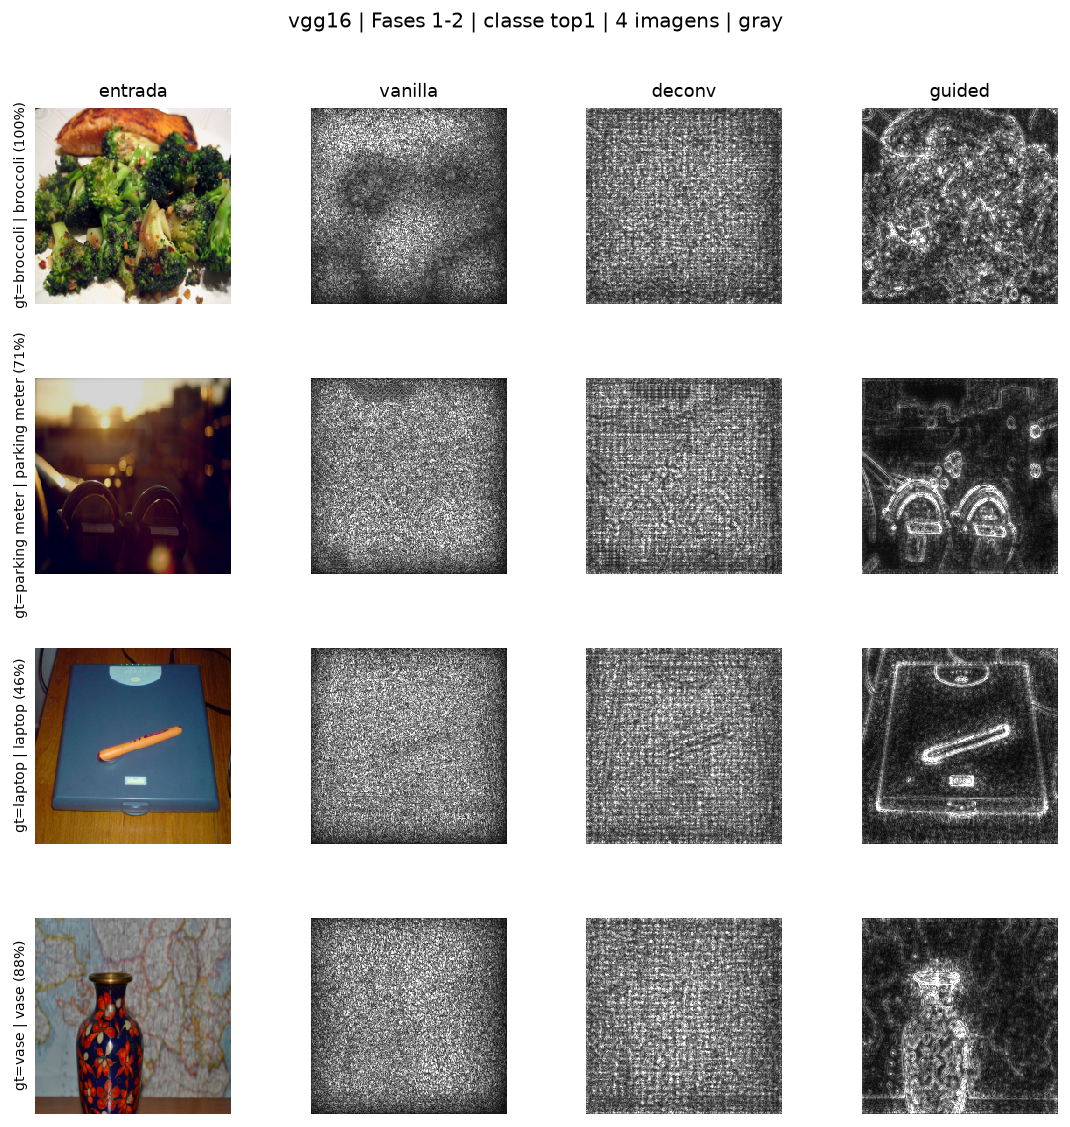
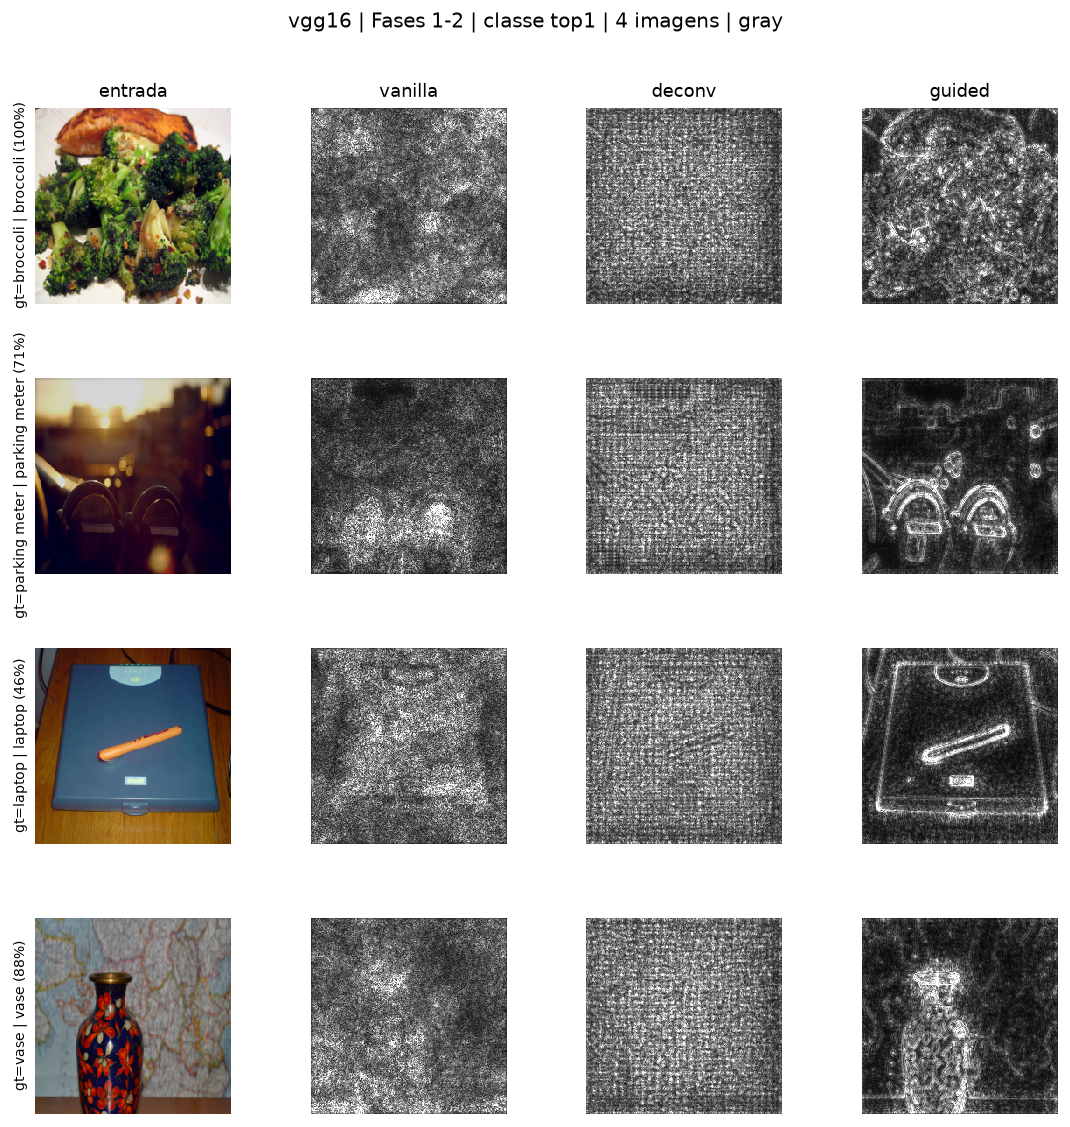
fix(relu): vanilla backprop usa a máscara x > 0
A regra "vanilla passa sempre" não é o gradiente da rede: o gradiente comum
de um ReLU zera onde a entrada é negativa. Deixar passar tudo produz o
gradiente de uma rede com os ReLUs linearizados na volta — outro objeto, com
mapas densos e pico ~10^6 em vez de ~10^0.

Descoberto na Fase 3: na mesma imagem, a correlação entre as classes dava
0,99 em "vanilla" com a regra errada e 0,52 com a certa, e a comparação com
torch.autograd não fechava (0,614 vs 0,990).

test_vanilla_matches_autograd compara o mapa com torch.autograd puro e fixa
a definição correta; as expectativas de deconv e guided não mudam.

Figuras de results/figures/02_* regeneradas: só a coluna vanilla muda, e
agora ela mostra o blob difuso sobre o objeto em vez de ruído sem estrutura.

diff --git a/tests/test_saliency.py b/tests/test_saliency.py
@@ -24,9 +24,10 @@ class TinyModel(nn.Module):
     y0 = +sum(relu(x))  -> gradiente a montante todo positivo
     y1 = -sum(relu(x))  -> gradiente a montante todo negativo
 
-    E' o menor modelo que separa as tres regras: com y0 (a montante > 0) so'
-    `guided` usa o sinal de x; com y1 (a montante < 0) `deconv` e `guided`
-    zeram tudo e `vanilla` nao.
+    E' o menor modelo que separa as tres regras: `vanilla` olha o sinal de x,
+    `deconv` olha o sinal do gradiente a montante e `guided` olha os dois. Com
+    y0 (a montante > 0) vanilla e guided coincidem; com y1 (a montante < 0)
+    deconv e guided zeram tudo e vanilla nao.
     """
 
     def __init__(self, mode: str = "vanilla") -> None:
@@ -50,7 +51,7 @@ def _grad(model: nn.Module, x: torch.Tensor, class_idx: int, mode: str) -> torch
 @pytest.mark.parametrize(
     "mode,expected",
     [
-        ("vanilla", [1.0, 1.0, 1.0, 1.0]),
+        ("vanilla", [0.0, 1.0, 0.0, 1.0]),
         ("deconv", [1.0, 1.0, 1.0, 1.0]),
         ("guided", [0.0, 1.0, 0.0, 1.0]),
     ],
@@ -63,7 +64,7 @@ def test_relu_rule_with_positive_upstream(mode, expected):
 @pytest.mark.parametrize(
     "mode,expected",
     [
-        ("vanilla", [1.0, 1.0, 1.0, 1.0]),
+        ("vanilla", [0.0, 1.0, 0.0, 1.0]),
         ("deconv", [0.0, 0.0, 0.0, 0.0]),
         ("guided", [0.0, 0.0, 0.0, 0.0]),
     ],
@@ -71,6 +72,29 @@ def test_relu_rule_with_positive_upstream(mode, expected):
 def test_relu_rule_with_negative_upstream(mode, expected):
     grad = _grad(TinyModel(), X, class_idx=1, mode=mode)
     assert torch.equal(grad, torch.tensor(expected))
+
+
+def test_vanilla_matches_autograd():
+    """`vanilla` tem que ser o gradiente comum — inclusive a mascara x > 0.
+
+    Teste de regressao: a primeira versao deixava o gradiente passar sempre
+    pelo ReLU, o que nao e' o gradiente da rede (e produzia mapas densos com
+    pico ~10^6 em vez de contornos).
+    """
+    torch.manual_seed(0)
+    model = nn.Sequential(
+        nn.Conv2d(3, 4, 3, padding=1), nn.ReLU(),
+        nn.Conv2d(4, 2, 3, padding=1), nn.ReLU(),
+        nn.Flatten(), nn.Linear(2 * 8 * 8, 5),
+    )
+    x = torch.randn(1, 3, 8, 8)
+
+    xr = x.clone().requires_grad_(True)
+    (grad,) = torch.autograd.grad(model(xr)[0, 3], xr)
+    expected = grad[0].abs().amax(dim=0)
+
+    heatmap, _ = saliency(model, x, 3, mode="vanilla")
+    assert torch.allclose(heatmap, expected, atol=1e-6)
 
 
 def test_unknown_mode_is_rejected():

diff --git a/gradcam/relu_variants.py b/gradcam/relu_variants.py
@@ -3,9 +3,15 @@
 Os metodos de saliencia por gradiente diferem apenas na mascara aplicada ao
 gradiente quando ele atravessa o ReLU, na volta:
 
-    vanilla | sempre passa
-    deconv  | passa se grad_out > 0          (Zeiler & Fergus, 2014)
-    guided  | passa se grad_out > 0 e x > 0  (Springenberg et al., 2014)
+    vanilla | passa se x > 0                  (gradiente comum / Simonyan 2013)
+    deconv  | passa se grad_out > 0           (Zeiler & Fergus, 2014)
+    guided  | passa se grad_out > 0 e x > 0   (Springenberg et al., 2014)
+
+`vanilla` **nao** e' "deixa passar sempre": o gradiente comum de `relu` ja'
+zera onde a entrada e' negativa. Deixar passar tudo seria o gradiente de uma
+rede com os ReLUs linearizados na volta — outro objeto, com mapas densos e
+magnitudes muito maiores. Essa era a definicao errada na primeira versao desta
+implementacao; o teste `test_vanilla_matches_autograd` fixa a correta.
 
 Ver plans/general_plan.md, secao 2.2.
 
@@ -33,7 +39,9 @@ class _ReluVariant(torch.autograd.Function):
     def backward(ctx, grad_output: torch.Tensor):
         (x,) = ctx.saved_tensors
         grad = grad_output
-        if ctx.mode == "deconv":
+        if ctx.mode == "vanilla":
+            grad = grad * (x > 0)
+        elif ctx.mode == "deconv":
             grad = grad * (grad > 0)
         elif ctx.mode == "guided":
             grad = grad * (grad > 0) * (x > 0)
